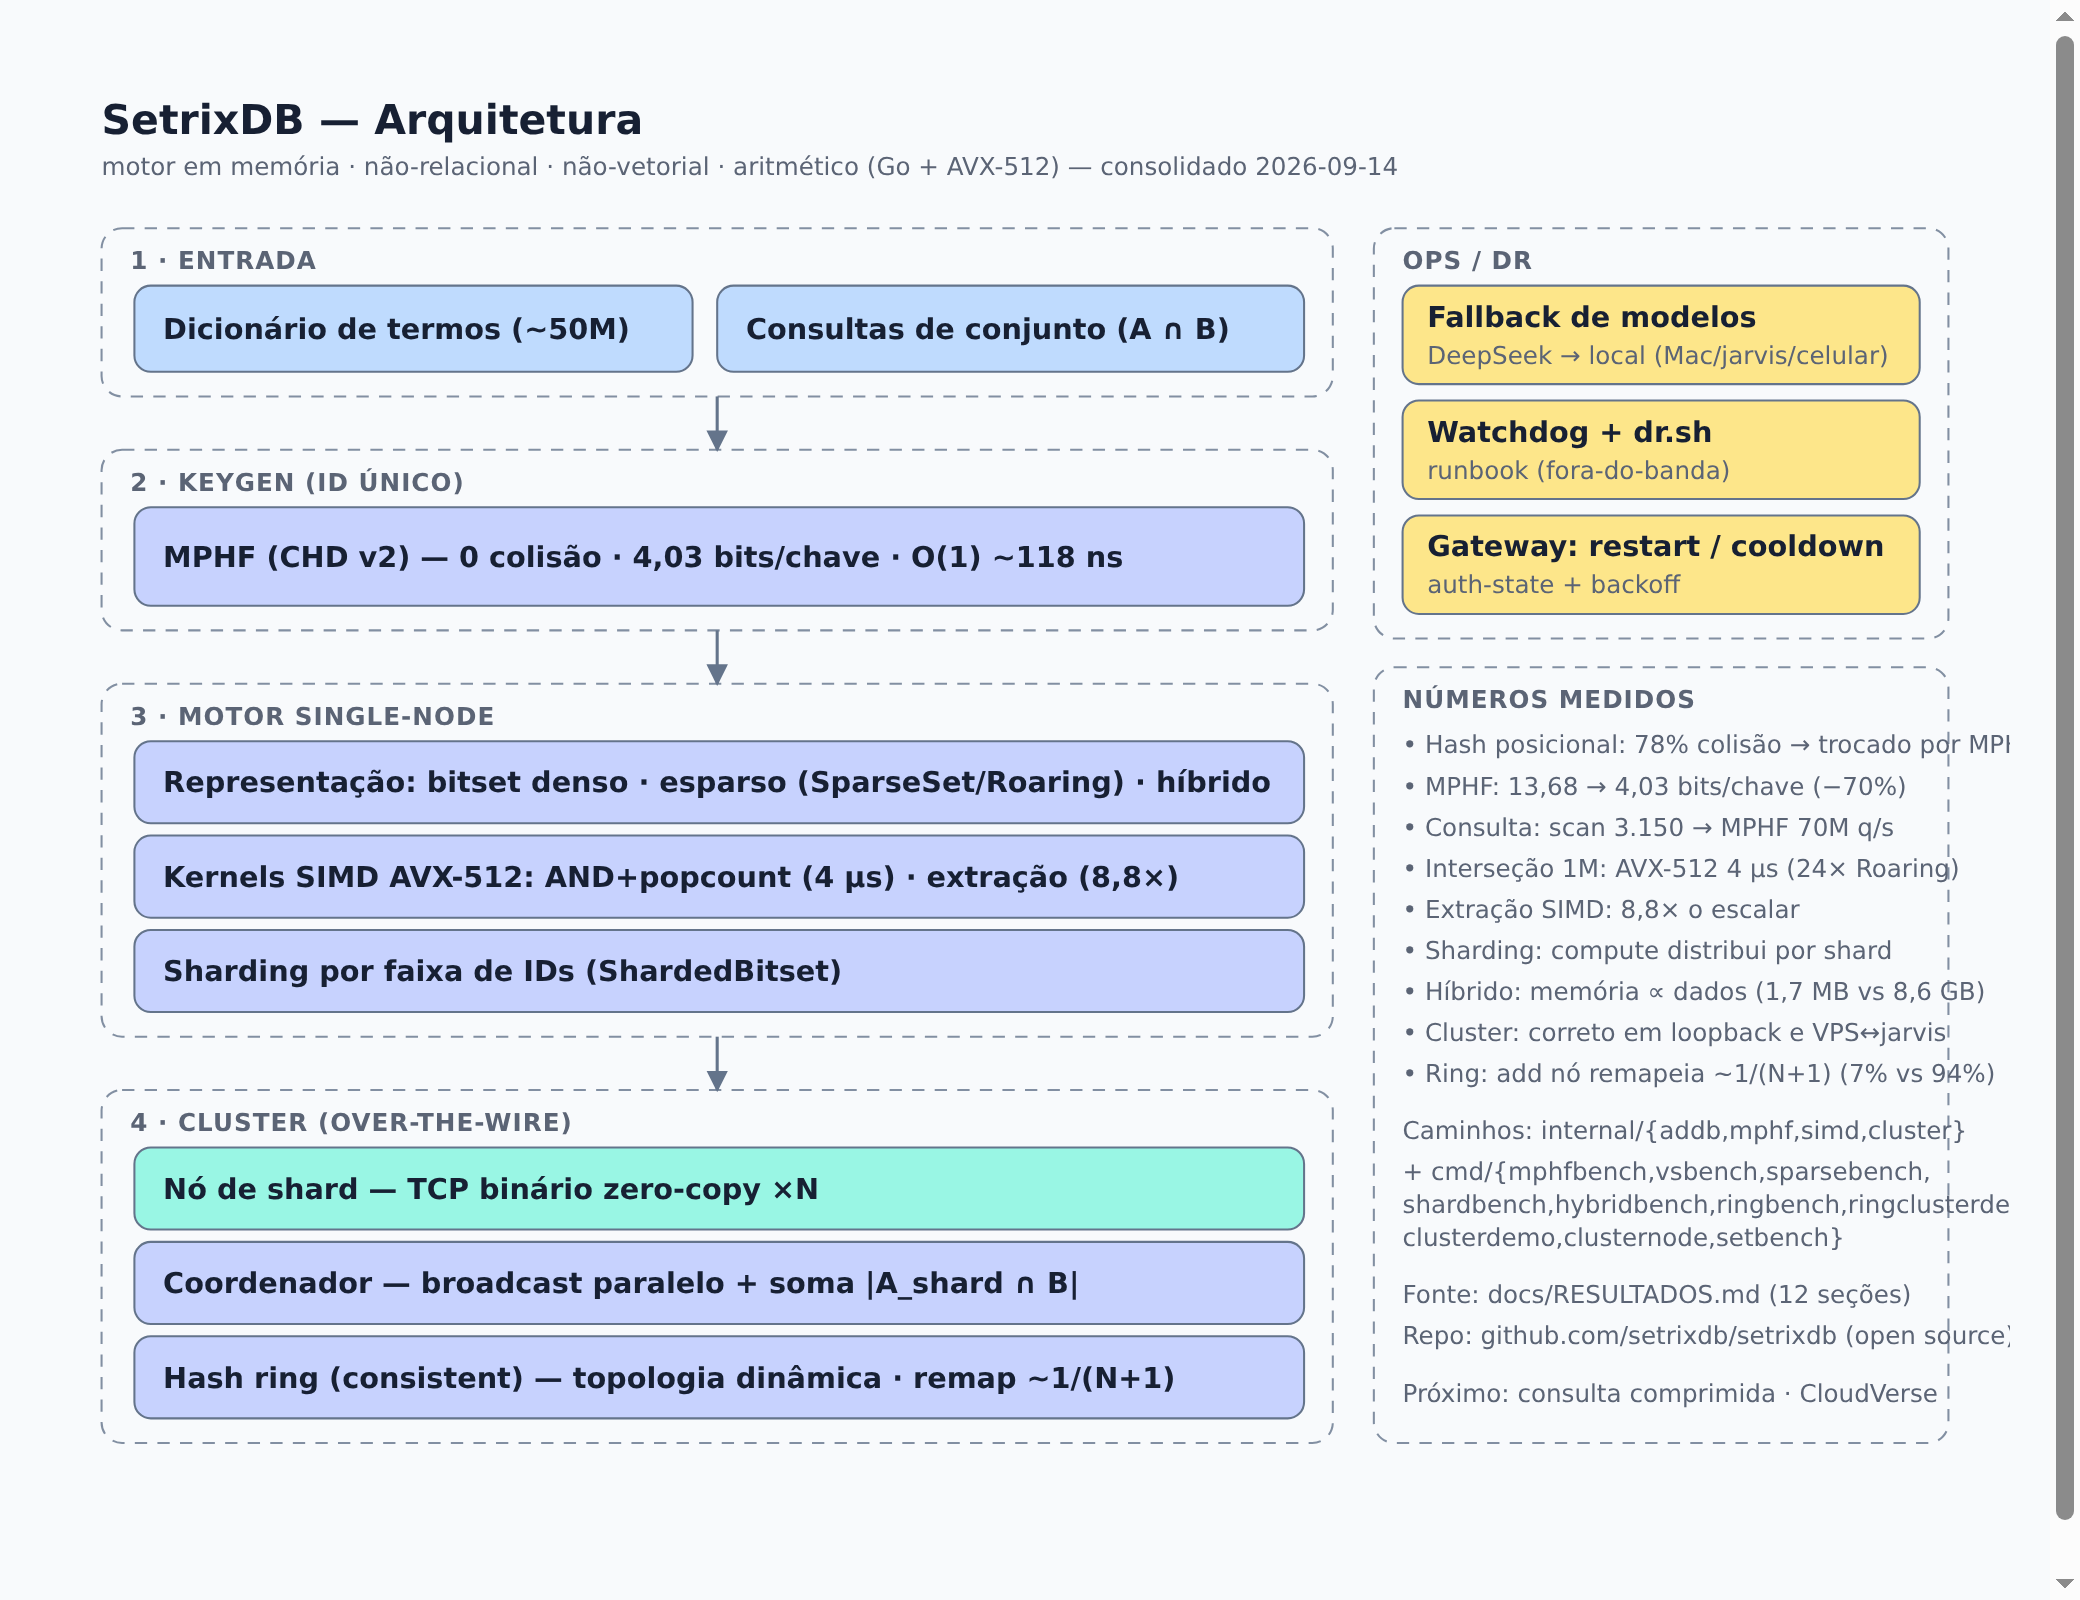
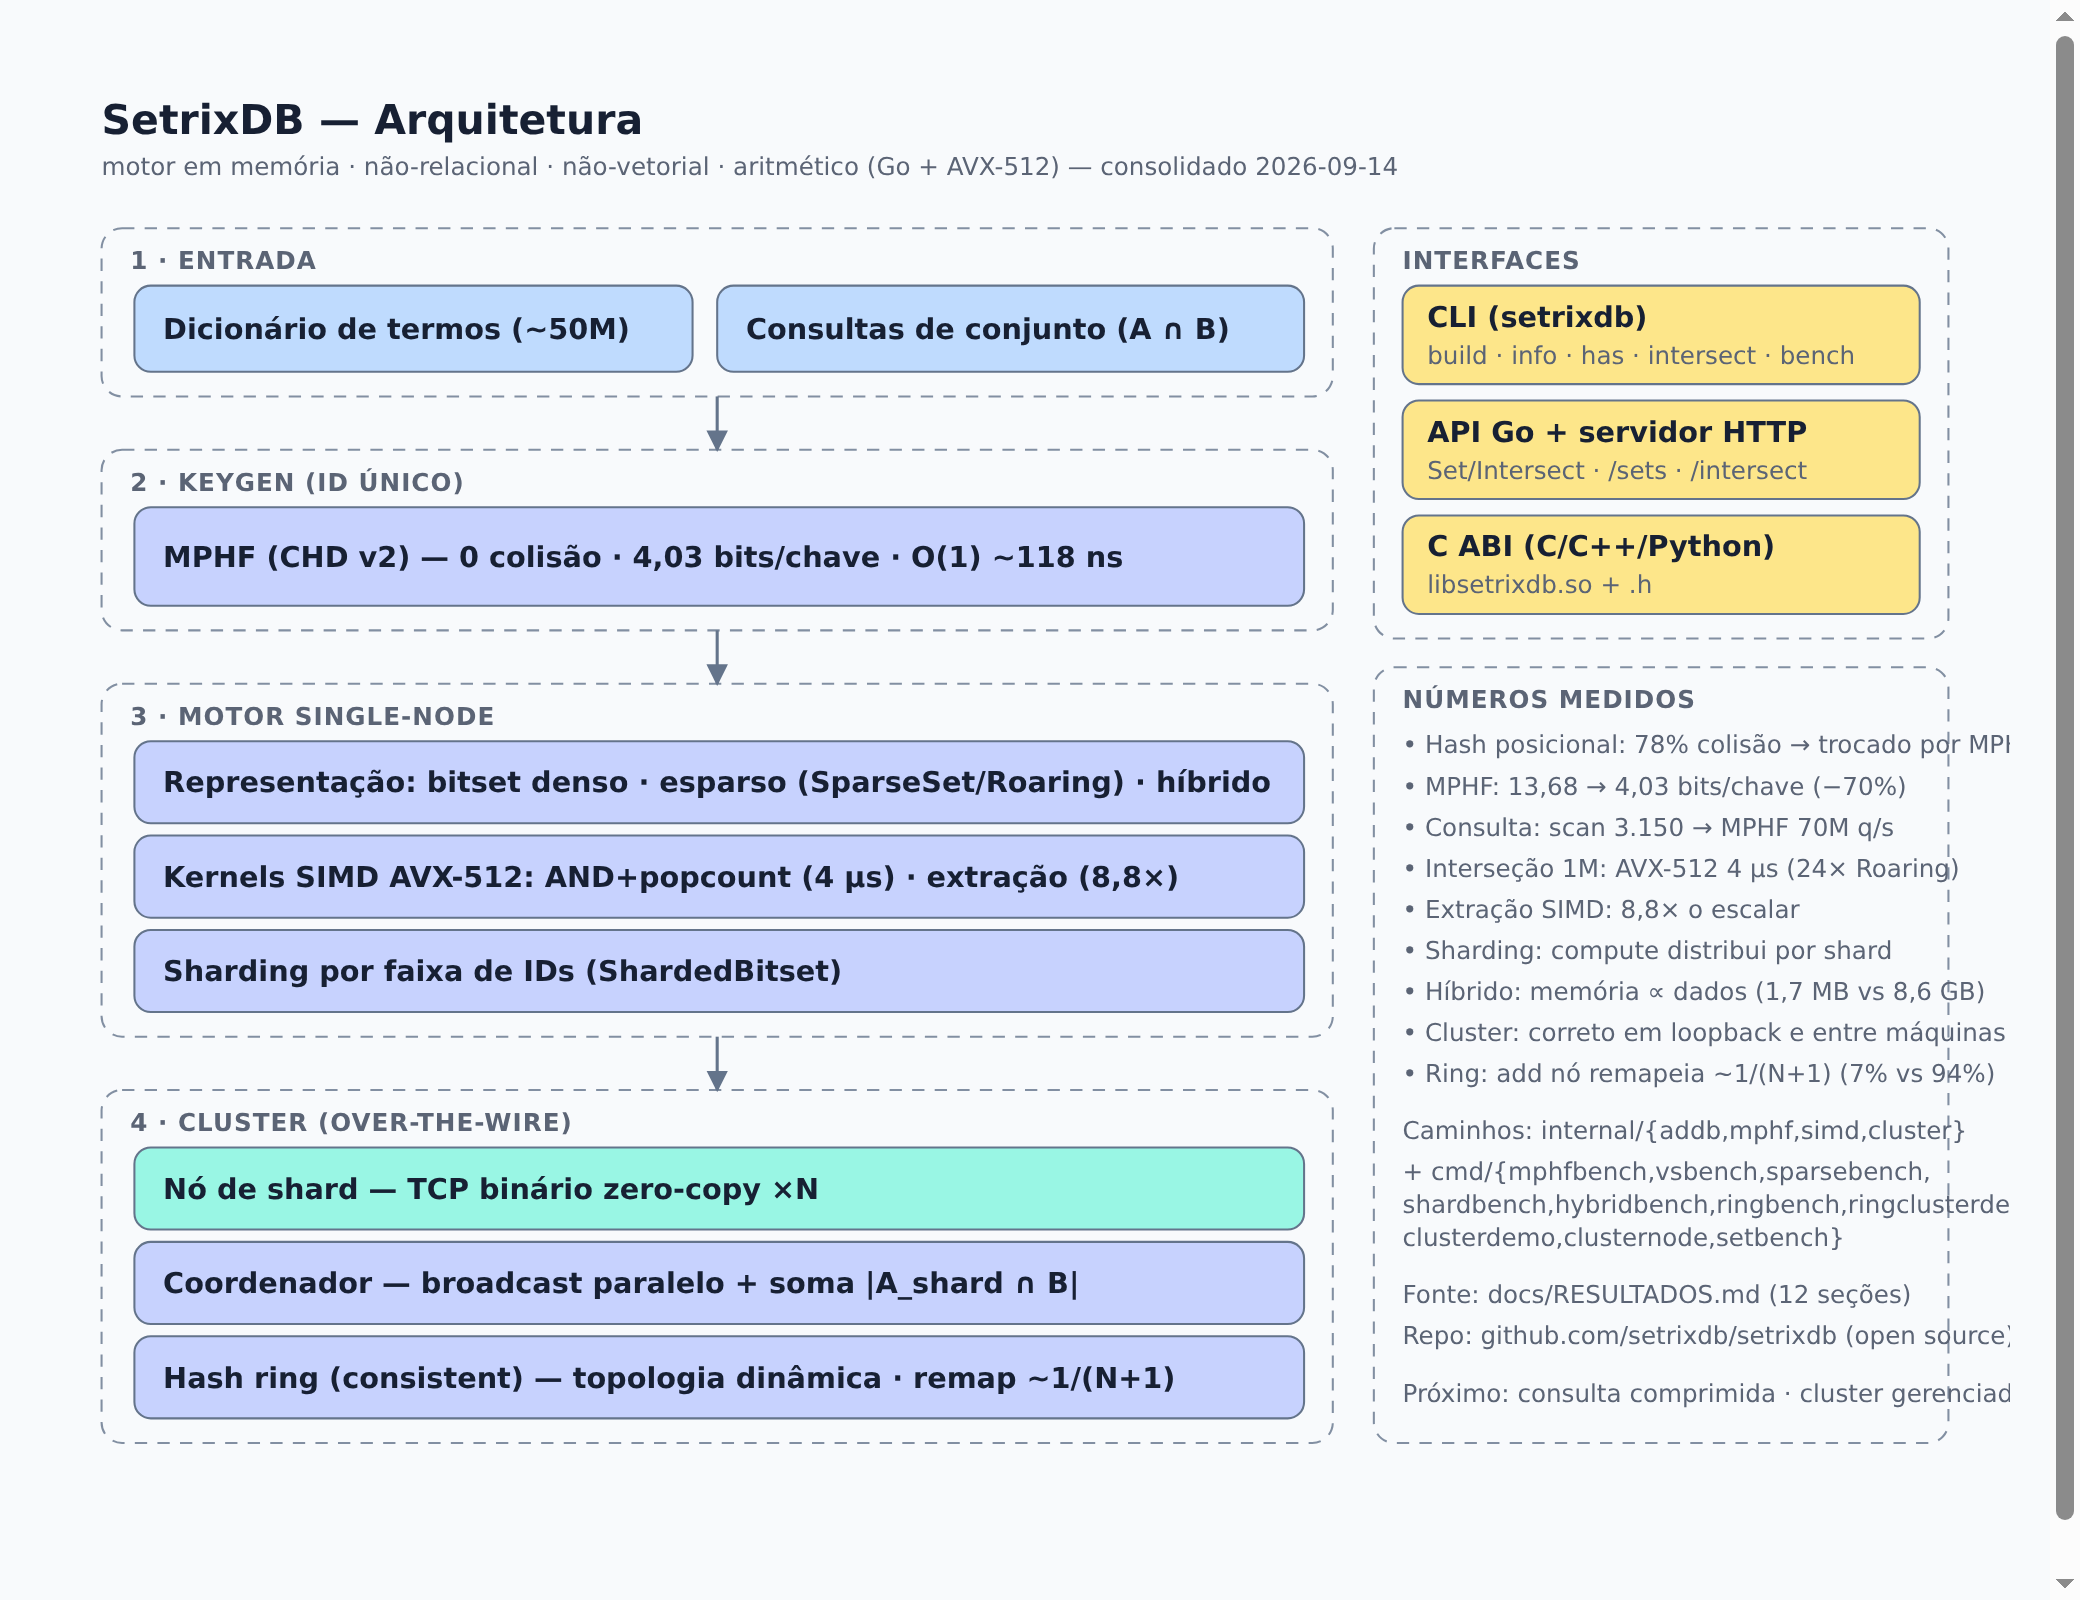
sanitize: remover refs de infra interna dos docs/site (no-remoto/plataforma de nuvem/cloud/VPN/servidor -> generico)

Changed region(s): [[0.6875, 0.1562, 0.9062, 0.375], [0.875, 0.8438, 0.9688, 0.875], [0.875, 0.625, 0.9688, 0.6562]]

diff --git a/docs/ARQUITETURA.html b/docs/ARQUITETURA.html
@@ -81,16 +81,16 @@
 
   <!-- coluna direita -->
   <rect class="zone" x="650" y="80" width="280" height="200" rx="10"/>
-  <text class="zm" x="664" y="100">OPS / DR</text>
+  <text class="zm" x="664" y="100">INTERFACES</text>
   <rect class="node external" x="664" y="108" width="252" height="48" rx="8"/>
-  <text class="label" x="676" y="128">Fallback de modelos</text>
-  <text class="small" x="676" y="146">DeepSeek → local (Mac/nó remoto/celular)</text>
+  <text class="label" x="676" y="128">CLI (setrixdb)</text>
+  <text class="small" x="676" y="146">build · info · has · intersect · bench</text>
   <rect class="node external" x="664" y="164" width="252" height="48" rx="8"/>
-  <text class="label" x="676" y="184">Watchdog + dr.sh</text>
-  <text class="small" x="676" y="202">runbook (fora-do-banda)</text>
+  <text class="label" x="676" y="184">API Go + servidor HTTP</text>
+  <text class="small" x="676" y="202">Set/Intersect · /sets · /intersect</text>
   <rect class="node external" x="664" y="220" width="252" height="48" rx="8"/>
-  <text class="label" x="676" y="240">Gateway: restart / cooldown</text>
-  <text class="small" x="676" y="258">auth-state + backoff</text>
+  <text class="label" x="676" y="240">C ABI (C/C++/Python)</text>
+  <text class="small" x="676" y="258">libsetrixdb.so + .h</text>
 
   <rect class="zone" x="650" y="294" width="280" height="378" rx="10"/>
   <text class="zm" x="664" y="314">NÚMEROS MEDIDOS</text>
@@ -101,7 +101,7 @@
   <text class="small" x="664" y="416">• Extração SIMD: 8,8× o escalar</text>
   <text class="small" x="664" y="436">• Sharding: compute distribui por shard</text>
   <text class="small" x="664" y="456">• Híbrido: memória ∝ dados (1,7 MB vs 8,6 GB)</text>
-  <text class="small" x="664" y="476">• Cluster: correto em loopback e VPS↔nó remoto</text>
+  <text class="small" x="664" y="476">• Cluster: correto em loopback e entre máquinas</text>
   <text class="small" x="664" y="496">• Ring: add nó remapeia ~1/(N+1) (7% vs 94%)</text>
   <text class="small" x="664" y="524">Caminhos: internal/{addb,mphf,simd,cluster}</text>
   <text class="small" x="664" y="544">+ cmd/{mphfbench,vsbench,sparsebench,</text>
@@ -109,6 +109,6 @@
   <text class="small" x="664" y="576">clusterdemo,clusternode,setbench}</text>
   <text class="small" x="664" y="604">Fonte: docs/RESULTADOS.md (12 seções)</text>
   <text class="small" x="664" y="624">Repo: github.com/setrixdb/setrixdb (open source)</text>
-  <text class="small" x="664" y="652">Próximo: consulta comprimida · plataforma de nuvem</text>
+  <text class="small" x="664" y="652">Próximo: consulta comprimida · cluster gerenciado</text>
 </svg>
 </main>

diff --git a/docs/RESULTADOS.md b/docs/RESULTADOS.md
@@ -146,7 +146,7 @@ Teste real: função `ExtractSet` (`internal/addb/extract.go`).
 2. **Membership:** paridade com `map`, 2,2× menos memória.
 3. **Interseção:** bitset denso + AVX-512 → **líder** (24–30× vs Roaring), denso e esparso (enquanto couber).
 4. **Escala:** sharding por range distribui o compute; memória horizontal = multi-máquina + híbrido bitset/roaring.
-5. **Distribuído:** nós por shard over-the-wire (TCP) — correto em loopback e VPS↔nó remoto; custo = rede.
+5. **Distribuído:** nós por shard over-the-wire (TCP) — correto em loopback e entre máquinas reais; custo = rede.
 6. **Posicionamento mantido:** membership/interseção aritmética exata — **não** vira NoSQL nem vetorial.
 
 _Reproduzível: `go test ./...` + `go run ./cmd/{setbench,vsbench,sparsebench,shardbench,mphfbench}`._
@@ -178,16 +178,16 @@ Interseção (1M×1M): range **densa** → bitset AVX-512 **4 µs**; universo **
 |---|---|
 | Correção (local vs distribuído) | **idêntico** em todos os testes |
 | 4 nós locais (loopback), universo 2²⁶ | local 282 µs · distribuído **3,3 ms/consulta** (307 q/s) |
-| **VPS ↔ nó remoto** (VPN), universo 2²⁴, 2 shards | correto; **275 ms/consulta** (rede-bound: link WG ~2 MB/s) |
+| **servidor ↔ nó remoto** (link lento), universo 2²⁴, 2 shards | correto; **275 ms/consulta** (rede-bound: link ~2 MB/s) |
 
 **Veredito:** o SetrixDB escala **horizontalmente** — memória e compute distribuídos entre máquinas. O gargalo era a **rede** (transmitir a consulta a cada query); a solução implementada são **conjuntos ARMAZENADOS**: a interseção `A ∩ B` de dois sets já armazenados só carrega o **nome** na rede (cada nó faz o `AND` local), sem transmitir dados.
 
 | cenário | armazenado (só nomes) | ad-hoc (transmite a consulta) |
 |---|---|---|
 | 4 nós locais (2²⁶) | **559 µs** | 3,29 ms (**6×**) |
-| **VPS ↔ nó remoto** (WG, 2²⁴) | **19,4 ms** | 364 ms (**19×**) |
+| **servidor ↔ nó remoto** (rede, 2²⁴) | **19,4 ms** | 364 ms (**19×**) |
 
-Em link lento (VPN ~2 MB/s) o ganho explode — é o modo escalável do cluster.
+Em link lento (link ~2 MB/s) o ganho explode — é o modo escalável do cluster.
 
 ---
 
@@ -202,6 +202,6 @@ Em link lento (VPN ~2 MB/s) o ganho explode — é o modo escalável do cluster.
 | 16 | 7% (ideal 6%) | 9% (ideal 6%) | 94% |
 | 64 | 2% (ideal 1,5%) | 3% (ideal 1,6%) | 99% |
 
-**Veredito:** entrar/sair um nó remapeia só ~1/(N+1) dos IDs (vs ~tudo no módulo ingênuo) — a base pra **rebalancear o cluster sem re-shuffle total**. É a peça de topologia que casa com o plano de clusterizar o banco em instâncias (plataforma de nuvem).
+**Veredito:** entrar/sair um nó remapeia só ~1/(N+1) dos IDs (vs ~tudo no módulo ingênuo) — a base pra **rebalancear o cluster sem re-shuffle total**. É a peça de topologia que casa com o plano de clusterizar o banco em instâncias (cluster real).
 
 **Integração ring+cluster** (`internal/cluster/sharded.go` + `cmd/ringclusterdemo`): cada shard é atribuído a um nó **pelo anel**. Verificado: resultado **idêntico ao local** (12 shards / 3 nós) e, entrando +1 nó, **2/12 shards mudam de dono** (17%, ideal 25%) — no módulo mudariam ~todos.

diff --git a/docs/APRESENTACAO-PRODUTO.md b/docs/APRESENTACAO-PRODUTO.md
@@ -97,7 +97,7 @@ Cada categoria tem seu papel — e o SetrixDB **respeita todos eles**. Ele é um
 | **Interseção esparsa** (universo 2²⁶) | **303 µs** | Roaring64 9,26 ms | **~30×** |
 | **Membership** | paridade c/ `map`, **exato** | `map` 22,3 B/chave | **2,2× menos memória** |
 | **Memória** (universo 2³⁶, 4M chaves) | **1,73 MB** (híbrido) | bitset denso 8,59 GB | memória **∝ dados**, não ∝ universo |
-| **Distribuído** (link lento WG) | **19,4 ms** (sets armazenados) | 364 ms (ad-hoc) | **19×** |
+| **Distribuído** (link lento) | **19,4 ms** (sets armazenados) | 364 ms (ad-hoc) | **19×** |
 | **Topologia** (entra 1 nó, 16 nós) | **7%** remapeado (ideal 6%) | módulo: ~94% | rebalanceamento incremental |
 
 **Correção idêntica** entre local e distribuído em todos os testes (`go test ./...` verde:
@@ -110,8 +110,8 @@ Cada categoria tem seu papel — e o SetrixDB **respeita todos eles**. Ele é um
 - **Busca & filtragem em escala** — cruzamento de listas de IDs (`A ∩ B`), facetas, dedup.
 - **Recomendação / feature store** — geração de candidatos em microssegundos.
 - **Antifraude & segurança** — listas de bloqueio, correlação de sinais, ACLs.
-- **Telemetria & observabilidade** — séries por ID (mesmo território do `TSDB`).
-- **Rede & nuvem** — tabelas de rotas, VPCs, políticas L4 (a própria **plataforma de nuvem**).
+- **Telemetria & observabilidade** — séries por ID (mesmo território do motores de telemetria).
+- **Rede & nuvem** — tabelas de rotas, VPCs, políticas L4 (plataformas de nuvem).
 - **Borda / Edge AI** — latência e energia mínimas em SBCs e NPUs.
 - **Busca exata em dicionários** — ex.: os ~50 mi de termos validados.
 - **Bioinformática / DSP** — k-mers, correlação de sinais.
@@ -122,7 +122,7 @@ Cada categoria tem seu papel — e o SetrixDB **respeita todos eles**. Ele é um
 
 - **POC em Go**, ~28 arquivos, ~13 famílias de teste — **todos os testes verdes**.
 - Resultados **medidos e reproduzíveis** (`go test ./...` + `cmd/{setbench,vsbench,sparsebench,shardbench,mphfbench,ringbench}`).
-- **Distribuído validado de verdade**: 4 nós locais e **VPS ↔ nó remoto via VPN**.
+- **Distribuído validado de verdade**: 4 nós locais e **servidor ↔ nó remoto (rede)**.
 - Documentação completa (`README`, `ESPECIFICACAO`, `ARQUITETURA`, `RESULTADOS`) + PDF consolidado.
 - **Sem dependências de terceiros** no núcleo; MPHF, bitset, ring e cluster escritos do zero.
 
@@ -133,7 +133,7 @@ Cada categoria tem seu papel — e o SetrixDB **respeita todos eles**. Ele é um
 | Fase | Entrega |
 |---|---|
 | ✅ Feito | MPHF, bitset/SparseSet/híbrido, kernel AVX-512, sharding, cluster over-the-wire, hash ring |
-| **Agora** | **Testes de escala em nuvem (plataforma de nuvem)** — cluster real multi-nó |
+| **Agora** | **Testes de escala em nuvem (cluster real)** — cluster real multi-nó |
 | Próximo | Driver de **NPU** (DMA zero-copy + pinning), protocolo UDP/gRPC, benchmarks de **energia (J/busca)** em SBC |
 | Produto | SDK embarcável (Go/C) + serviço de cluster gerenciado (edge-first) |
 

diff --git a/docs/RESULTADOS-VS-MERCADO.md b/docs/RESULTADOS-VS-MERCADO.md
@@ -1,6 +1,6 @@
 # Head-to-head — SetrixDB vs soluções de mercado
 
-> Medido nesta VPS (AMD EPYC 9J45 / Zen4, 2 vCPU) em 2026-09-14, Go 1.22.12 + gcc 11.4 (cgo, AVX-512).
+> Medido em servidor de referência (AMD EPYC 9J45 / Zen4, 2 vCPU) em 2026-09-14, Go 1.22.12 + gcc 11.4 (cgo, AVX-512).
 > Código: `cmd/vsbench`. Dependências de terceiros **só do benchmark** (Roaring, Bloom).
 
 ## Membership (n = 1.000.000 chaves uint64)

diff --git a/docs/RESULTADOS-MPHF.md b/docs/RESULTADOS-MPHF.md
@@ -1,6 +1,6 @@
 # Resultados medidos — MPHF (CHD) para o dicionário do SetrixDB
 
-> Números reais, medidos nesta VPS em **2026-09-14**. Hardware: **2 vCPU** (AMD EPYC
+> Números reais, medidos em servidor de referência em **2026-09-14**. Hardware: **2 vCPU** (AMD EPYC
 > 9J45), Go **1.22.12**. Código: `internal/mphf/` (CHD escrito do zero) + `cmd/mphfbench`.
 > Nada aqui é estimativa — é `go run`/`go test` executado.
 

diff --git a/docs/MANIFESTO.md b/docs/MANIFESTO.md
@@ -1,7 +1,7 @@
 # SetrixDB — o motor de conjuntos que faltava
 ### Visão de produto · manifesto
 
-> **Verdade primeiro:** todo número abaixo foi **medido** (14/09/2026, VPS 2 vCPU AMD Zen4 com AVX-512,
+> **Verdade primeiro:** todo número abaixo foi **medido** (14/09/2026, servidor 2 vCPU AMD Zen4 com AVX-512,
 > Go 1.22). O que é visão está marcado como visão. Nada aqui é promessa disfarçada de resultado.
 
 ---
